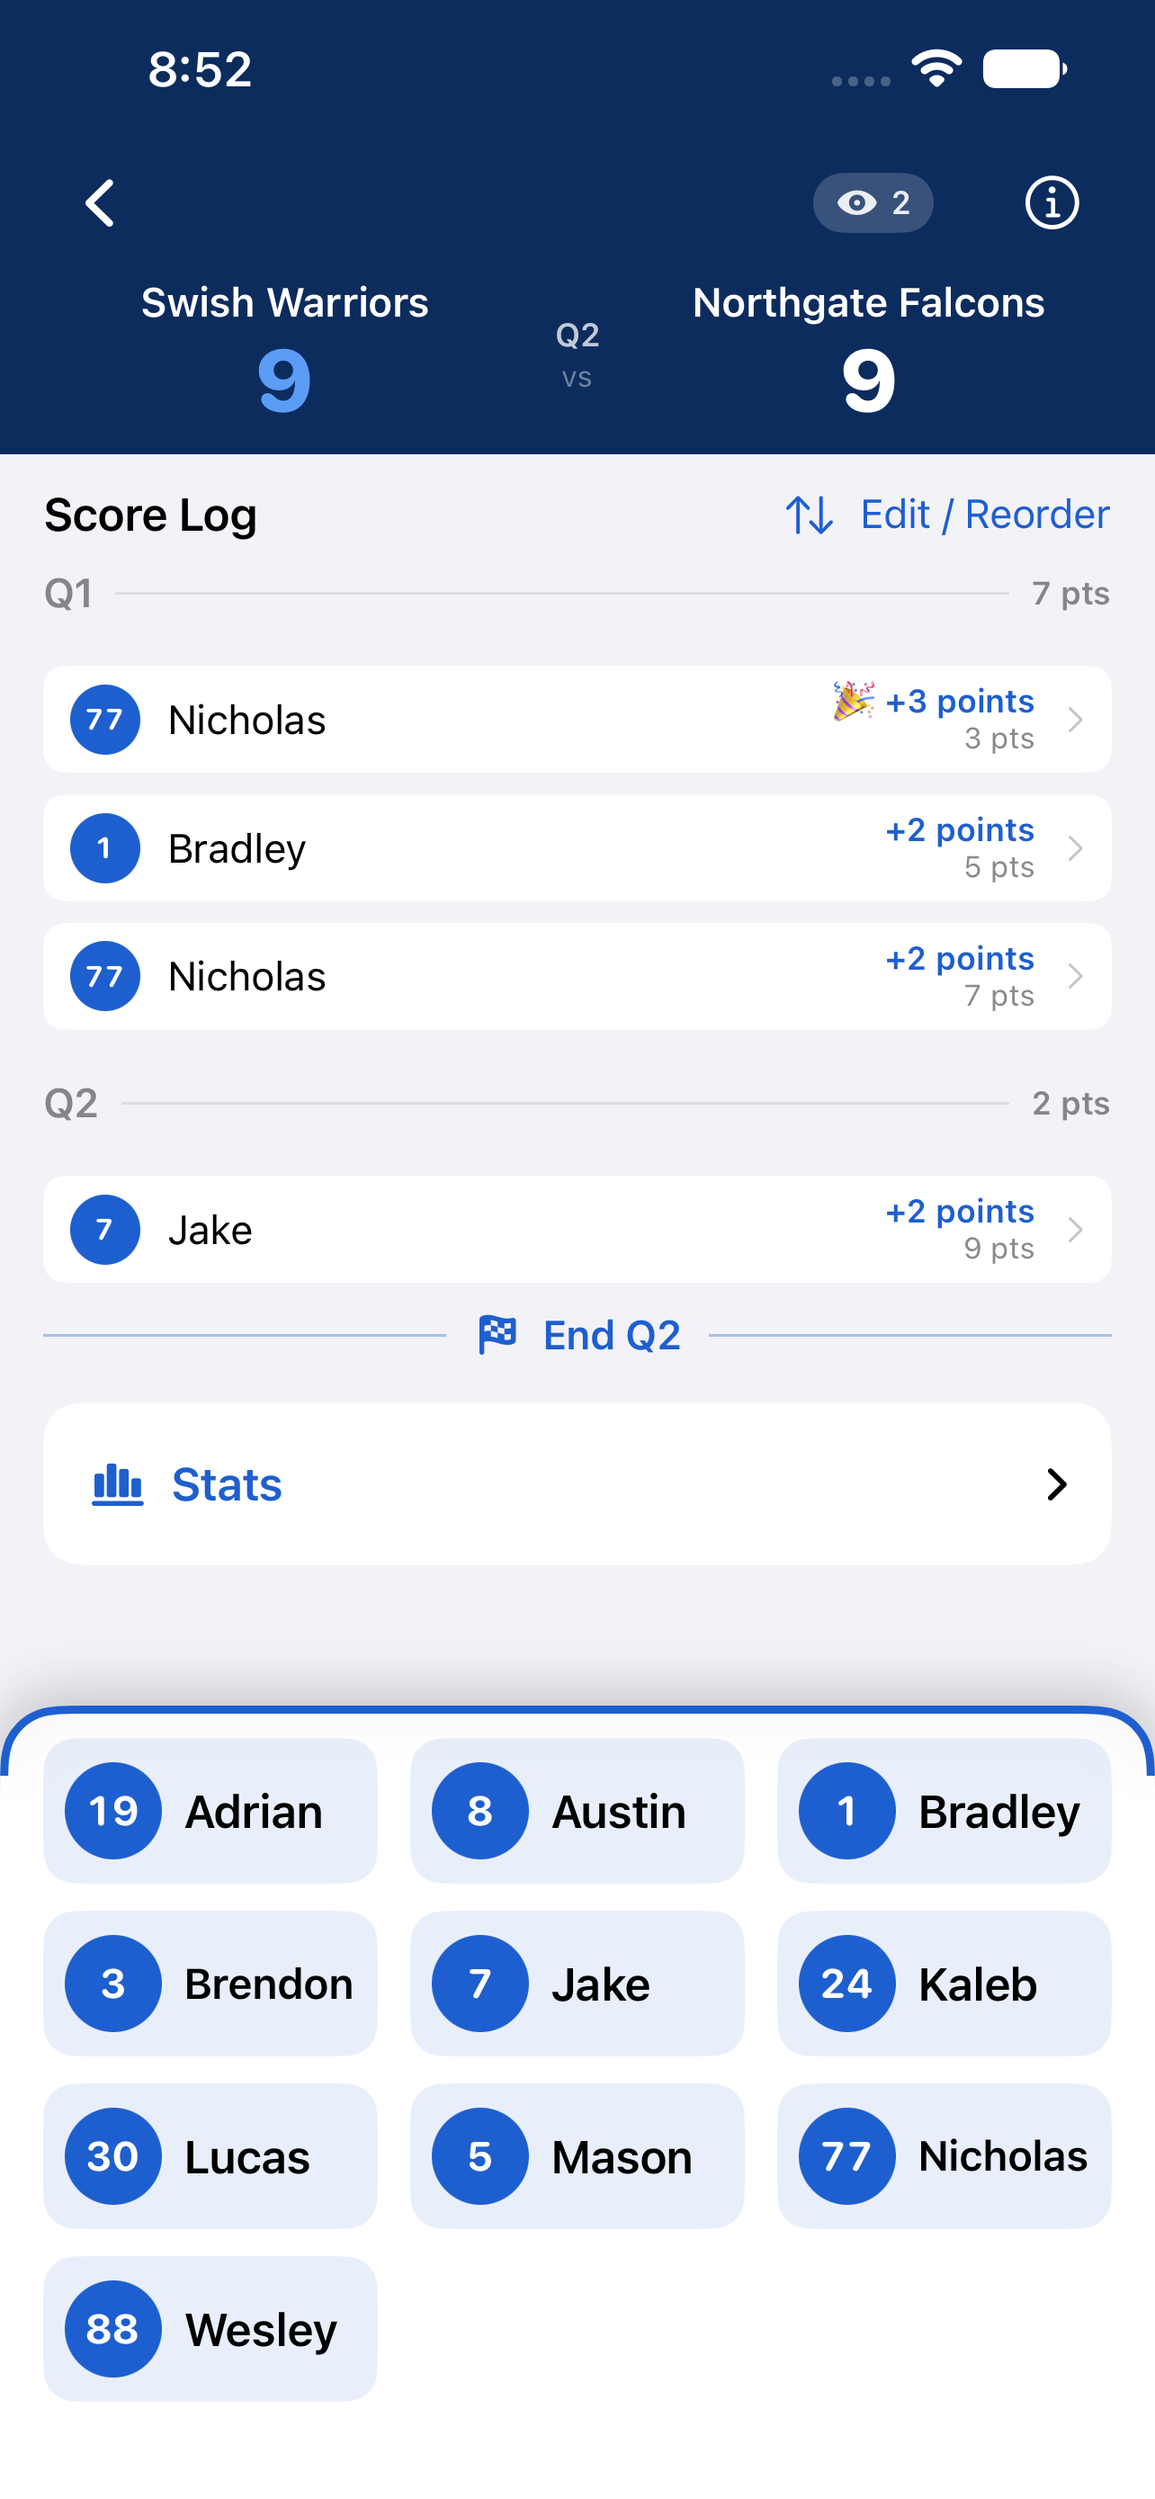
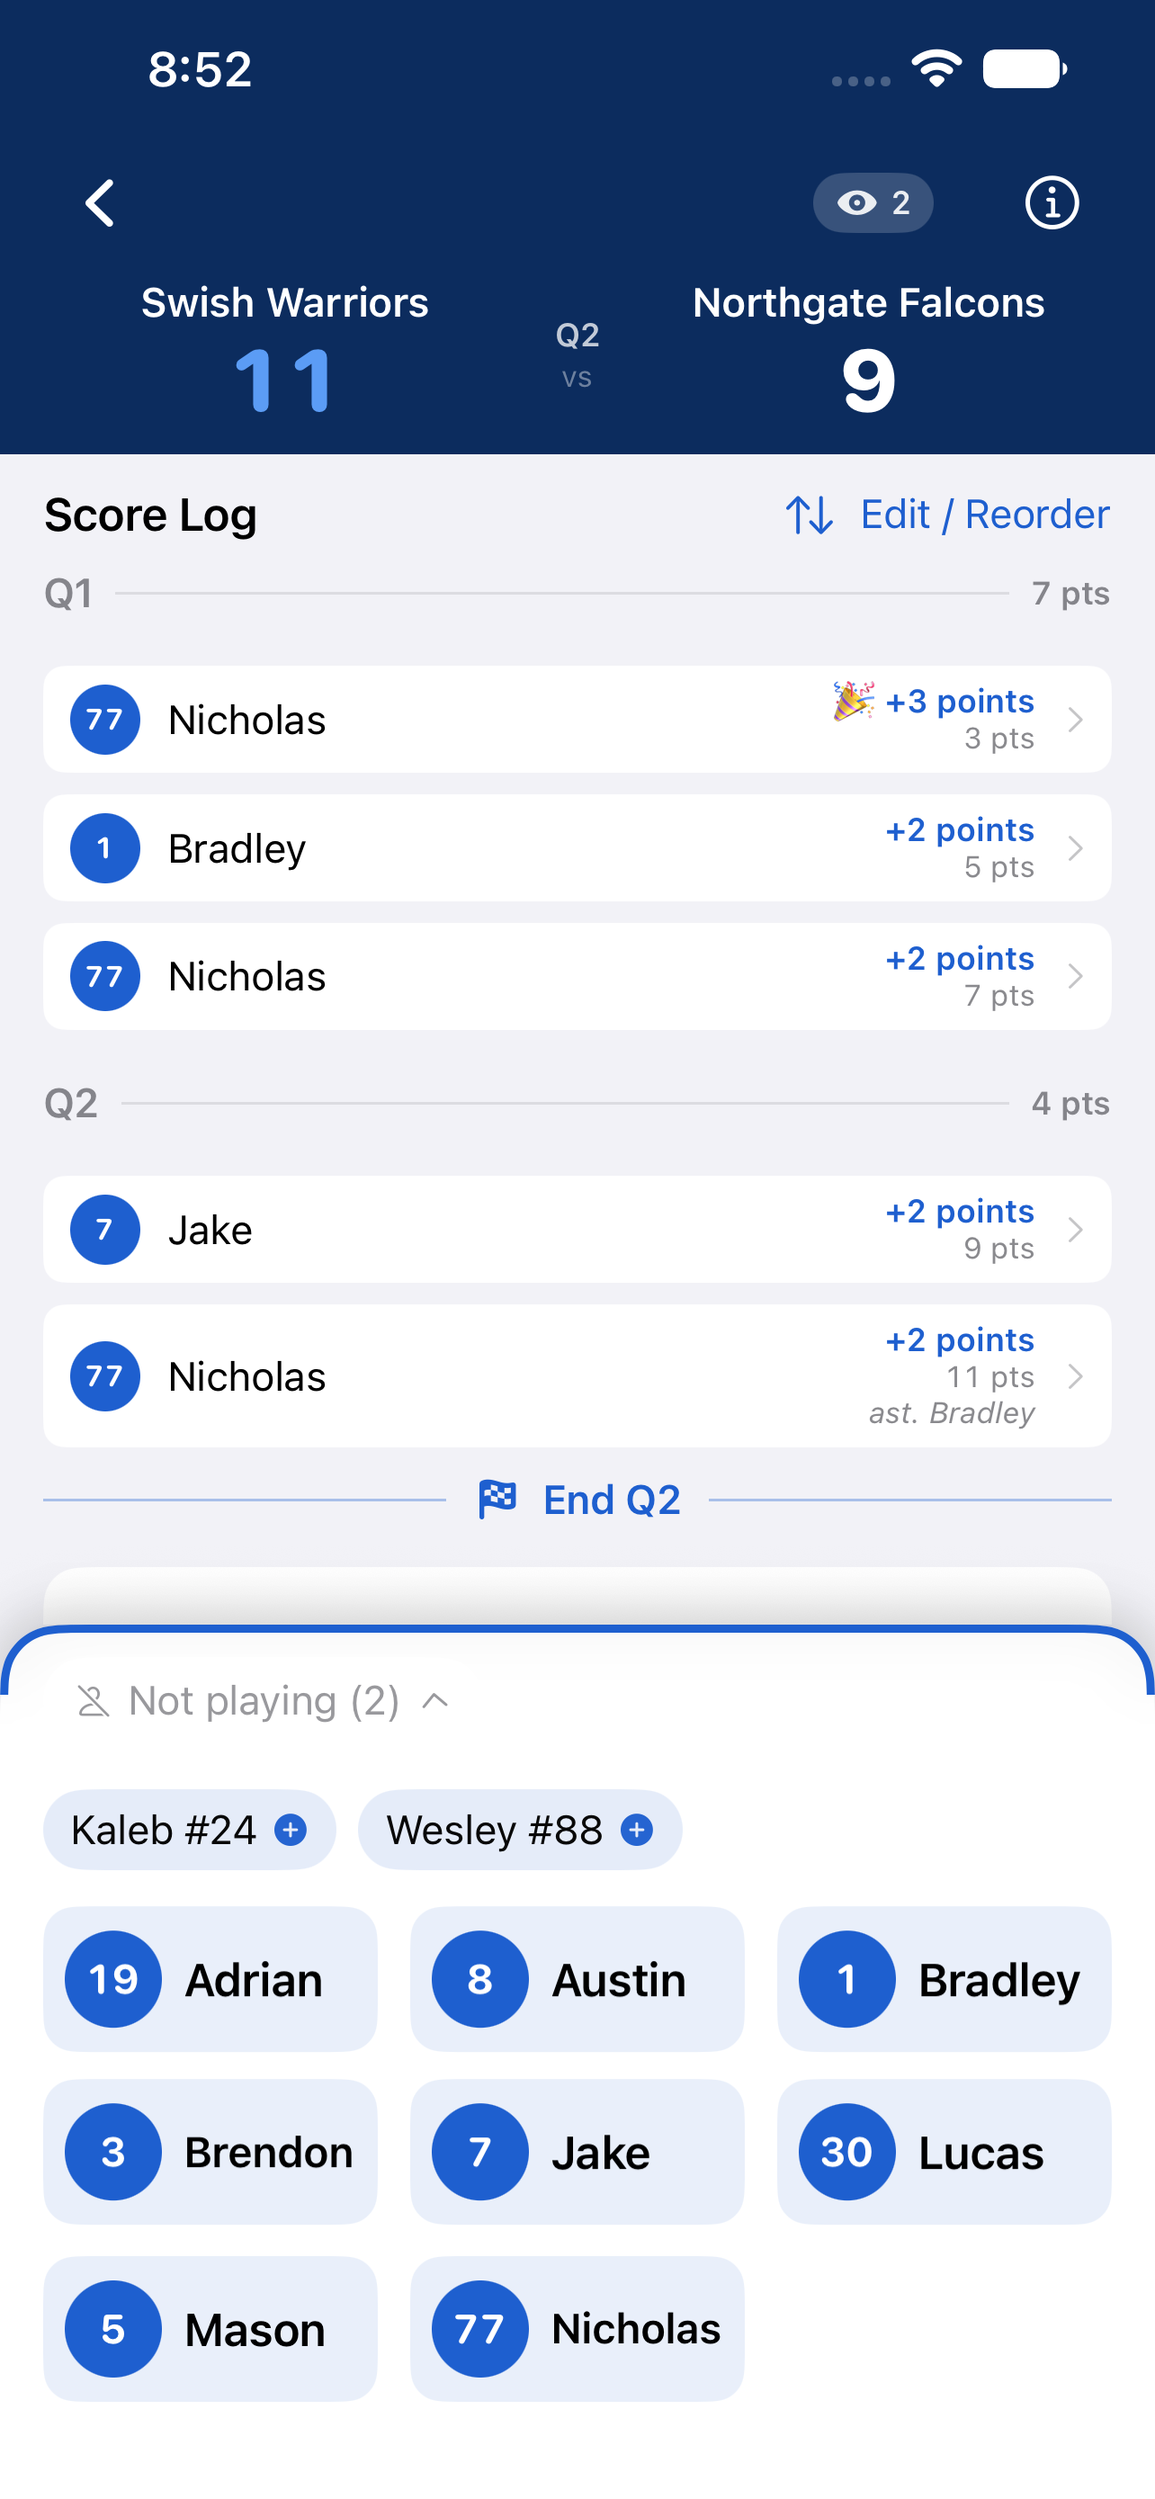
Audit every MD file and the store screenshot set
Docs review turned up two wrong screenshots and a run of claims several
releases out of date.

Screenshots:

- `01-game-live-scoring` was promoted from the wrong source. SCREENSHOTS.md's
  mapping table names `11-bench` for that slot deliberately — the bench
  capture shows scoring *and* the "Not playing" strip in one image — and a
  recent promotion used `03-live-scoring` instead, silently dropping benching
  from the App Store listing. Re-promoted from `11-bench`.
- `10-team-jerseys` had been stale since 2026-08-17 and went into the v1.6
  upload that way: #132/#166 added the "Your Name" section to the team editor
  months after the capture, so the uploaded shot still showed "Export a
  Backup" in that space.

Verified the other eight against the code: a slot is stale when its screen's
Swift file changed after the slot was last promoted. `05`, `07`, `08` and `09`
pass that test and are left alone — `09`'s "Aug 17, 2026" is the form's own
"today" default, not stale content.

Text:

- CLAUDE.md claimed v1.2 was the latest release and that v1.3 was open led by
  #57. Now v1.6 approved, v1.7 open with its three items.
- Read-write sharing was described as "deferred" in three files. It has been
  declined three times (#57, #169, public link); SHARING.md's "Not built yet"
  is now "Declined, and why", keeping the engineering analysis but recording
  that #169 would not have solved the need that prompted it.
- #32 (iPad) is closed as completed, not "open and deferred".
[…]

diff --git a/CLAUDE.md b/CLAUDE.md
@@ -24,14 +24,19 @@ tap targets, and error recovery are the top UX priorities.**
 <https://apps.apple.com/us/app/courtside-hoop-stats/id6791865094>
 
 Releases are grouped by GitHub milestone — `gh issue list --milestone vX.Y` for
-what's in a release. **v1.2 shipped 2026-08-18: read-only followers and their
-notifications.** The CloudKit schema is deployed to Production and verified —
-two TestFlight builds shared and followed each other's teams end to end (see
-`docs/SHARING.md`). v1.3 is open, led by #57 (co-trackers).
+what's in a release, and `docs/RELEASE_HISTORY.md` for build numbers and review
+turnaround. **v1.6 was approved 2026-09-16** (assists, on top of read-only
+followers and their notifications from v1.2). The CloudKit schema is deployed
+to Production and verified — two TestFlight builds shared and followed each
+other's teams end to end (see `docs/SHARING.md`).
+
+**v1.7 is open** and currently small: a `Codable` data-loss guard, the owner's
+notes shown to followers, and 3-pointers badged in the Score Log. Nothing
+blocks submitting it; nothing forces it either.
 
 Builds clean (0 warnings). A UI-test screenshot harness covers the main flows
-(`scripts/screenshots.sh`). **iPhone-only** (`TARGETED_DEVICE_FAMILY = 1`); #32
-(iPad) is open and deferred.
+(`scripts/screenshots.sh`). **iPhone-only** — `TARGETED_DEVICE_FAMILY = 1`, and
+#32 (iPad layout) is **closed**: iPhone-only is the answer, not a backlog item.
 
 ## What's built
 
@@ -43,8 +48,12 @@ Builds clean (0 warnings). A UI-test screenshot harness covers the main flows
 - **Games.** Tap **+** for a New Game form where **every field is optional**.
   **Start Game** begins scoring immediately; **Save** schedules it. Period
   format (quarters / halves / pickup) is chosen at creation.
+- **Assists.** After a made basket, an optional one-tap "assisted by" step —
+  skipping costs nothing. Assists show in the Score Log (`ast. Bradley`), in
+  the stats table's **AST** column, and in the PDF.
 - **Game Summary.** Final score, cumulative by-period linescore, per-player
-  stats with **FT** (`5/6`; the percentage is the PDF's, where there's room), editable opponent totals, editable log.
+  stats with **FT** (`5/6`; the percentage is the PDF's, where there's room),
+  editable opponent totals, editable log.
 - **Box score PDF.** Game Summary → share icon → a preview of a one-page PDF.
   Print-specific layout in `GameSummaryPDF.swift` (*not* a screen capture),
   NBA-style **DNP** rows, and a tappable App Store link attached via PDFKit
@@ -63,8 +72,10 @@ Builds clean (0 warnings). A UI-test screenshot harness covers the main flows
   only on collision (`Jake` → `Jake L.` → `Jake Moore`); the Roster keeps full
   names.
 - **Also live:** edit-a-finished-game, score-log reorder + movable dividers,
-  location autocomplete + address, game start time, and a consistency pass
-  (Cancel/Save editors, delete confirms — see `docs/UI_GUIDELINES.md`).
+  location autocomplete + address, game start time, 3-pointers badged 🎉 in the
+  Score Log (a `+2`/`+3` one character apart was unreadable mid-game), the
+  owner's game **notes shown to followers** (and in the PDF), and a consistency
+  pass (Cancel/Save editors, delete confirms — see `docs/UI_GUIDELINES.md`).
 
 ## Traps worth knowing
 
@@ -160,12 +171,22 @@ Builds clean (0 warnings). A UI-test screenshot harness covers the main flows
 The backlog lives in **GitHub Issues** — see `gh issue list` — grouped by
 milestone.
 
-1. **#57 — co-trackers.** Read-write participants, so two people can score the
-   same team. Roughly 3–4x the followers work and it *changes* code followers
-   depend on, so it leads the **v1.3** milestone.
-   `docs/SHARING.md` covers what it needs and names a smaller first slice
-   (baton-passing rather than merging).
-2. **#32 — iPad layout.** Deferred; the app is iPhone-only.
+**The backlog is currently empty** — no open issues, no open PRs. New work
+starts with a decision, not a pick-up.
+
+**Closed doors**, with the reasoning already written down — these are settled,
+not waiting:
+
+1. **Read-write sharing is declined, three times over** — #57 (co-trackers),
+   #169 (co-admin), and a public share link. Don't re-propose it without new
+   information: participant management is the *owner's* privilege in CloudKit,
+   so a second writer would not have solved the need that prompted #169
+   ("add other followers"). `docs/SHARING.md` keeps the full analysis, and the
+   prototypes are archived at `archive/144-live-lineup` and
+   `archive/169-co-admin-prototype`.
+2. **Tracking minutes played / on-court five (#144)** was **abandoned**, not
+   deferred — mid-game lineup tracking is too much work for the tracker. The
+   salvaged part (the `Codable` guard) shipped separately.
 
 ## MVP defaults chosen for the spec's open questions
 

diff --git a/docs/REQUIREMENTS.md b/docs/REQUIREMENTS.md
@@ -17,8 +17,9 @@ during live games. **Speed, big tap targets, legibility, and error recovery** ar
 the top UX priorities.
 
 **Team context:** Swish Warriors, youth league. Shipped to the App Store.
-Others can follow a team read-only (§3.10). Next: co-trackers
-who can edit, and read-only followers — see [`SHARING.md`](SHARING.md) and #57.
+Others can follow a team **read-only** (§3.10), which is the final state, not a
+stepping stone: read-write sharing has been declined three times (#57, #169,
+and a public link). See [`SHARING.md`](SHARING.md).
 
 ---
 
@@ -133,9 +134,11 @@ rendering, because `ImageRenderer` emits glyphs rather than annotations.
   by the email/phone on their Apple Account and the link goes out via Messages /
   Mail / AirDrop. Re-sharing reuses the existing share rather than making a
   second one.
-- **Permissions:** **read-only, invite-only.** No "Can edit" (co-tracker writes
-  aren't implemented) and no public link (a forwardable URL to a children's
-  roster is the wrong default).
+- **Permissions:** **read-only, invite-only** — a settled decision, not a gap.
+  No "Can edit" (read-write was explored twice and declined; see
+  [`SHARING.md`](SHARING.md)) and no public link (a forwardable URL to a
+  children's roster is the wrong default, and the trade for link-joining is
+  losing *control* of who joins, not gaining visibility).
 - **Follower:** a **Following tab** appears only when a team is actually shared
   with you. It lists each followed team's games with scores and a **Live** flag,
   opening to a read-only detail (score card, player stats, per-period
@@ -223,7 +226,7 @@ ViewModel layer yet.
 | Error recovery | Tap-to-edit / swipe-to-delete any logged event | Fat-finger + after-the-fact fixes |
 | Game lifecycle | scheduled → inProgress → complete | Pre-enter the season, then start |
 | Color | Swish Warriors blue accent, navy scoreboard | Team identity; high courtside contrast |
-| Navigation | Tabs: Games / Roster / Settings | Clear concerns |
+| Navigation | Tabs: Games / Roster / Settings, plus **Following** once a team is shared with you | Clear concerns; the extra tab appears only when it has content |
 | Accessibility | Dynamic Type + in-app Text Size floor | End user needs larger text |
 | Persistence | UserDefaults JSON, optional new fields | Zero setup, migration-safe |
 
@@ -232,13 +235,15 @@ ViewModel layer yet.
 ## 7. Out of scope / deferred
 
 Game timer/shot clock · opponent player tracking · CSV export · season
-summary/archiving · watchOS · **iPad layout** (#32, iPhone-only ships).
+summary/archiving · watchOS · **iPad layout** (#32 closed — iPhone-only is the
+decision, and `TARGETED_DEVICE_FAMILY = 1` enforces it).
 
-**Sharing:** read-only followers ship in v1.2 (§3.10). Still to come:
-**co-trackers** (read-write participants, which is where a synced Core Data
-store becomes necessary), **push notifications** for followers, and
-**publish-on-edit** so a followed game updates continuously rather than at share
-time. See [`SHARING.md`](SHARING.md).
+**Sharing:** read-only followers shipped in v1.2 (§3.10), and so did the two
+things this section used to list as pending — **push notifications** for
+followers and **publish-on-edit** (a debounced publish, protected by a
+background-task assertion). **Co-trackers / read-write sharing is declined**,
+not pending: see [`SHARING.md`](SHARING.md) for the analysis and where the
+prototypes are archived.
 
 **App Store**: live; see [`APP_STORE_LISTING.md`](APP_STORE_LISTING.md) for
 listing copy and the per-release checklist.

diff --git a/docs/SHARING.md b/docs/SHARING.md
@@ -1,7 +1,8 @@
 # Multi-User Sharing
 
-**Status:** read-only **followers** are built and shipping in **v1.2** (#57).
-Read-write **co-trackers** are deferred — see [Not built yet](#not-built-yet).
+**Status:** read-only **followers** shipped in **v1.2** (#57). Read-write
+sharing is **declined** — see [Declined, and why](#declined-and-why). Read-only
+is the finished design, not a first step.
 
 ## What it does
 
@@ -192,15 +193,39 @@ The **follower UI itself needs no iCloud account**: `DemoData.makeFollowedTeam()
 seeds a followed team and `FollowingScreenshotTests` drives the whole flow. Only
 the accept handshake and the real fetch require two accounts.
 
-## Not built yet
+## Declined, and why
 
-**Co-trackers (`.readWrite` participants)** — two people scoring the same team,
-e.g. one running the app courtside while the other jumps in. The mechanism is
-identical; a co-tracker is just a participant at a higher permission level.
+Read-write sharing has now been turned down **three times**, and the reasons
+differ enough to be worth keeping:
 
-Roughly **3–4x the work followers took**, and a different kind of work: followers
-were purely additive, while co-trackers *change* the code followers depend on —
-the service's database/zone handling, the publish path, and `Game`'s shape.
+| Attempt | Ask | Outcome |
+|---|---|---|
+| **#57** co-trackers | two people scoring the same team | declined on cost and data-loss risk (below) |
+| **#169** co-admin | "I wanted to add other followers" | declined — **it would not have worked**: participant management is the *owner's* privilege in CloudKit, so a co-admin still couldn't invite anyone |
+| public share link | link-joining instead of invites | declined — the trade is losing *control* of who joins, and it doesn't reveal who subscribed either |
+
+#169 is the instructive one: weeks of the riskiest work in the codebase would
+have shipped and still left the original need unmet. Prototypes are preserved
+at `archive/144-live-lineup` and `archive/169-co-admin-prototype` (branch
+`prototype/co-admin-screens`).
+
+**Two hazards the prototype exposed are true on `main` today**, harmless with a
+single writer but the first things to fix if a second one is ever contemplated:
+
+- `syncSharedState()` walks `teams`, asks `isSharing`, and publishes — a device
+  holding a team it doesn't own would adopt and republish it with
+  `savePolicy: .allKeys`.
+- `deleteGamesNoLongerPresent(...)` deletes any remote game absent from the
+  publisher's local list.
+
+### What it would have taken
+
+Kept because it's the reasoning, and re-deriving it costs a day. A co-tracker
+is just a participant at a higher permission level — the mechanism is
+identical. Roughly **3–4x the work followers took**, and a different kind of
+work: followers were purely additive, while co-trackers *change* the code
+followers depend on — the service's database/zone handling, the publish path,
+and `Game`'s shape.
 
 What it needs:
 

diff --git a/README.md b/README.md
@@ -58,10 +58,12 @@ anything. The tab appears only once a team has actually been shared with you.
 
 ## What it does
 
-- **Live scoring** — tap a player → a big point pad (+2 / +3 / FT ✓ / FT ✗).
-  Players show by **first name** for fast, unambiguous tapping. The score log
-  stays on top (with sticky period headers); players sit in the thumb zone.
-  Bench absent players; reorder or edit any entry.
+- **Live scoring** — tap a player → a big point pad (+2 / +3 / FT ✓ / FT ✗),
+  then an optional one-tap **assist** if someone set it up (skipping costs
+  nothing). Players show by **first name** for fast, unambiguous tapping. The
+  score log stays on top (with sticky period headers) and badges 3-pointers 🎉
+  so they read at a glance; players sit in the thumb zone. Bench absent
+  players; reorder or edit any entry.
 - **Games** — tap **+** to open the New Game form, where every field is optional.
   Hit **Start Game** to begin scoring right away, or **Save** to schedule it for
   later.
@@ -74,15 +76,17 @@ anything. The tab appears only once a team has actually been shared with you.
   Album; they get a **read-only** view in a **Following** tab and can't change
   anything. Built on CloudKit, so there's no account to create and no server.
   Followers are **notified** when a game starts, at each period end, and at the
-  final score — with a cadence setting, down to off. Updates land within seconds
+  final score — with a cadence setting, down to off. Any **notes** you write on
+  a game are shown to them too, attributed to you. Updates land within seconds
   when you have signal, and catch up once you're out of a gym with no reception.
-- **Summary** — final score, cumulative by-period linescore, and per-player stats
-  including **FT%** (e.g. `5/6 (83%)`). Players who sat the game out are listed
-  **DNP** rather than dropped from the roster.
+- **Summary** — final score, cumulative by-period linescore, and per-player
+  stats: points, 2P, 3P, assists and free throws (`5/6`). Players who sat the
+  game out are listed **DNP** rather than dropped from the roster.
 - **Box score PDF** — export the summary as a clean one-page PDF and share it
   (AirDrop / Messages / Files). Preview it first, so you see exactly what lands
-  in the parents' group chat. Players who didn't play are listed **DNP**,
-  NBA-style. Rendered on device; nothing is uploaded.
+  in the parents' group chat. It has room the phone doesn't, so it adds **FT%**
+  (`5/6 (83%)`) and any notes on the game. Players who didn't play are listed
+  **DNP**, NBA-style. Rendered on device; nothing is uploaded.
 
 ## Build
 

diff --git a/docs/SCREENSHOTS.md b/docs/SCREENSHOTS.md
@@ -57,7 +57,7 @@ range, not one happy path:
 | Sections | Playing Now (Northgate), Coming Up (Summit), Final Scores (four games) |
 | Results | **win** (Lakeside 48–41), **loss** (Central 38–44), **tie** (Pine Ridge 30–30) |
 | Period formats | quarters, **halves** (Pine Ridge), **pickup** (Bayview — no periods, no location) |
-| Edge cases | a DNP row (Wesley benched), a missed FT so FT% isn't always 100%, optional fields left blank on the pickup game |
+| Edge cases | a DNP row (Wesley benched), a missed FT so the `5/6` split isn't always clean (and FT% isn't 100% in the PDF), greyed zero cells, optional fields left blank on the pickup game |
 
 `DemoDataTests` asserts this coverage, so dropping a game while editing the seed
 fails a test rather than quietly costing a badge nothing screenshots any more.

diff --git a/docs/PRIVACY_POLICY.md b/docs/PRIVACY_POLICY.md
@@ -1,6 +1,6 @@
 # Privacy Policy — Courtside Hoop Stats
 
-_Last updated: August 5, 2026_
+_Last updated: September 13, 2026_
 
 Courtside Hoop Stats ("the app") is a basketball statistics tracker. This policy
 explains what information the app handles. In short: **the developer does not
